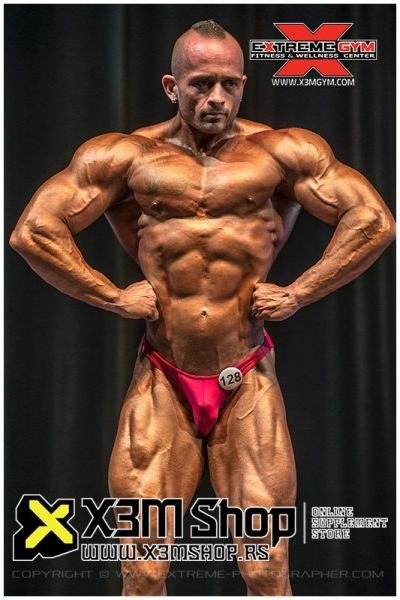
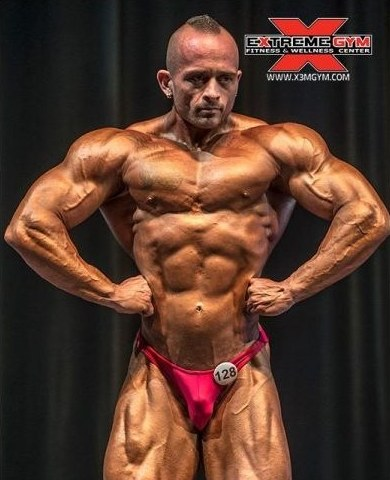
feat: beskonacna traka transformacija, slika takmicara bez okvira

diff --git a/src/components/sections/TransformationsGrid.tsx b/src/components/sections/TransformationsGrid.tsx
@@ -1,200 +1,44 @@
-"use client";
-
 import Image from "next/image";
-import { useEffect, useRef } from "react";
 
 type Photo = { src: string; alt: string };
 
-const SPEED = 40;
-const RESUME_AFTER = 2500;
-
-function resumeTime() {
-  return performance.now() + RESUME_AFTER;
+function Track({ photos, hidden }: { photos: Photo[]; hidden?: boolean }) {
+  return (
+    <ul aria-hidden={hidden} className="flex shrink-0 gap-4 pr-4">
+      {photos.map((p) => (
+        <li key={p.src} className="w-[78vw] shrink-0 sm:w-[360px] lg:w-[420px]">
+          <figure className="relative overflow-hidden rounded-lg bg-brand-paper-line shadow-[0_20px_40px_-24px_rgba(10,10,10,0.45)]">
+            <Image
+              src={p.src}
+              alt={hidden ? "" : p.alt}
+              width={720}
+              height={720}
+              sizes="(min-width: 1024px) 420px, (min-width: 640px) 360px, 78vw"
+              className="aspect-square w-full object-cover"
+            />
+            <span className="absolute top-3 left-3 rounded-sm bg-brand-black/80 px-2.5 py-1 text-[11px] font-bold tracking-[0.16em] text-white uppercase">
+              Prije
+            </span>
+            <span className="absolute top-3 right-3 rounded-sm bg-brand-yellow px-2.5 py-1 text-[11px] font-bold tracking-[0.16em] text-brand-black uppercase">
+              Poslije
+            </span>
+          </figure>
+        </li>
+      ))}
+    </ul>
+  );
 }
 
 export function TransformationsGrid({ photos }: { photos: Photo[] }) {
-  const track = useRef<HTMLDivElement>(null);
-  const state = useRef({
-    pos: 0,
-    paused: false,
-    resumeAt: 0,
-    dragging: false,
-    startX: 0,
-    startPos: 0,
-    moved: false,
-  });
-
-  useEffect(() => {
-    const el = track.current;
-    if (!el) return;
-    const reduce = window.matchMedia("(prefers-reduced-motion: reduce)").matches;
-    const s = state.current;
-    let frame = 0;
-    let last = performance.now();
-    let visible = false;
-
-    const wrap = () => {
-      const half = el.scrollWidth / 2;
-      if (s.pos >= half) s.pos -= half;
-      if (s.pos < 0) s.pos += half;
-    };
-
-    const tick = (t: number) => {
-      const dt = Math.min(t - last, 64) / 1000;
-      last = t;
-      if (visible && !reduce && !s.paused && !s.dragging && t >= s.resumeAt) {
-        s.pos += SPEED * dt;
-        wrap();
-        el.scrollLeft = s.pos;
-      }
-      frame = requestAnimationFrame(tick);
-    };
-
-    const io = new IntersectionObserver(([e]) => {
-      visible = e.isIntersecting;
-    });
-    io.observe(el);
-
-    const hold = () => {
-      s.resumeAt = resumeTime();
-    };
-    const onScroll = () => {
-      if (Math.abs(el.scrollLeft - s.pos) > 2) {
-        s.pos = el.scrollLeft;
-        wrap();
-        if (s.pos !== el.scrollLeft) el.scrollLeft = s.pos;
-        hold();
-      }
-    };
-    const onEnter = () => (s.paused = true);
-    const onLeave = () => {
-      s.paused = false;
-      hold();
-    };
-
-    el.addEventListener("scroll", onScroll, { passive: true });
-    el.addEventListener("mouseenter", onEnter);
-    el.addEventListener("mouseleave", onLeave);
-    el.addEventListener("touchstart", hold, { passive: true });
-    frame = requestAnimationFrame(tick);
-
-    return () => {
-      cancelAnimationFrame(frame);
-      io.disconnect();
-      el.removeEventListener("scroll", onScroll);
-      el.removeEventListener("mouseenter", onEnter);
-      el.removeEventListener("mouseleave", onLeave);
-      el.removeEventListener("touchstart", hold);
-    };
-  }, []);
-
-  const onPointerDown = (e: React.PointerEvent<HTMLDivElement>) => {
-    if (e.pointerType !== "mouse" || !track.current) return;
-    const s = state.current;
-    s.dragging = true;
-    s.moved = false;
-    s.startX = e.clientX;
-    s.startPos = track.current.scrollLeft;
-    track.current.setPointerCapture(e.pointerId);
-  };
-
-  const onPointerMove = (e: React.PointerEvent<HTMLDivElement>) => {
-    const s = state.current;
-    const el = track.current;
-    if (!s.dragging || !el) return;
-    const dx = e.clientX - s.startX;
-    if (Math.abs(dx) > 4) s.moved = true;
-    el.scrollLeft = s.startPos - dx;
-  };
-
-  const onPointerUp = (e: React.PointerEvent<HTMLDivElement>) => {
-    const s = state.current;
-    if (!s.dragging) return;
-    s.dragging = false;
-    s.resumeAt = resumeTime();
-    track.current?.releasePointerCapture(e.pointerId);
-  };
-
-  const step = (dir: 1 | -1) => {
-    const el = track.current;
-    if (!el) return;
-    const card = el.querySelector("li");
-    const w = card ? card.getBoundingClientRect().width + 16 : 400;
-    state.current.resumeAt = resumeTime();
-    el.scrollBy({ left: dir * w, behavior: "smooth" });
-  };
-
   return (
-    <div className="relative mt-12 lg:mt-16">
-      <div
-        ref={track}
-        onPointerDown={onPointerDown}
-        onPointerMove={onPointerMove}
-        onPointerUp={onPointerUp}
-        onPointerCancel={onPointerUp}
-        onClickCapture={(e) => state.current.moved && e.preventDefault()}
-        className="transformations-track cursor-grab overflow-x-auto overscroll-x-contain select-none active:cursor-grabbing"
-        tabIndex={0}
-        role="region"
-        aria-label="Transformacije klijenata, prije i poslije"
-      >
-        <ul className="flex w-max gap-4 px-5 lg:px-[max(1.25rem,calc((100vw-80rem)/2+1.25rem))]">
-          {[...photos, ...photos].map((p, i) => (
-            <li
-              key={`${p.src}-${i}`}
-              aria-hidden={i >= photos.length}
-              className="w-[78vw] shrink-0 sm:w-[360px] lg:w-[420px]"
-            >
-              <figure className="relative overflow-hidden rounded-lg bg-brand-paper-line shadow-[0_20px_40px_-24px_rgba(10,10,10,0.45)]">
-                <Image
-                  src={p.src}
-                  alt={i >= photos.length ? "" : p.alt}
-                  width={720}
-                  height={720}
-                  draggable={false}
-                  sizes="(min-width: 1024px) 420px, (min-width: 640px) 360px, 78vw"
-                  className="aspect-square w-full object-cover"
-                />
-                <span className="absolute top-3 left-3 rounded-sm bg-brand-black/80 px-2.5 py-1 text-[11px] font-bold tracking-[0.16em] text-white uppercase">
-                  Prije
-                </span>
-                <span className="absolute top-3 right-3 rounded-sm bg-brand-yellow px-2.5 py-1 text-[11px] font-bold tracking-[0.16em] text-brand-black uppercase">
-                  Poslije
-                </span>
-              </figure>
-            </li>
-          ))}
-        </ul>
-      </div>
-
-      <div className="mx-auto mt-6 flex max-w-7xl items-center justify-between gap-4 px-5">
-        <p className="text-sm text-brand-ink-muted">Povuci mišem, prstom ili koristi strelice.</p>
-        <div className="flex gap-2">
-          {([-1, 1] as const).map((dir) => (
-            <button
-              key={dir}
-              type="button"
-              onClick={() => step(dir)}
-              aria-label={dir === -1 ? "Prethodna transformacija" : "Sljedeća transformacija"}
-              className="grid size-12 place-items-center rounded-full border-2 border-brand-black transition-colors hover:bg-brand-black hover:text-white"
-            >
-              <svg
-                viewBox="0 0 24 24"
-                fill="none"
-                aria-hidden="true"
-                className={`size-5 ${dir === -1 ? "rotate-180" : ""}`}
-              >
-                <path
-                  d="M5 12h14m0 0-6-6m6 6-6 6"
-                  stroke="currentColor"
-                  strokeWidth="2.25"
-                  strokeLinecap="round"
-                  strokeLinejoin="round"
-                />
-              </svg>
-            </button>
-          ))}
-        </div>
+    <div
+      role="region"
+      aria-label="Transformacije klijenata, prije i poslije"
+      className="mt-12 overflow-hidden lg:mt-16"
+    >
+      <div className="flex w-max animate-marquee will-change-transform [animation-duration:90s] [backface-visibility:hidden]">
+        <Track photos={photos} />
+        <Track photos={photos} hidden />
       </div>
     </div>
   );

diff --git a/src/app/globals.css b/src/app/globals.css
@@ -120,10 +120,3 @@ body {
 body {
   overflow-x: clip;
 }
-
-.transformations-track {
-  scrollbar-width: none;
-}
-.transformations-track::-webkit-scrollbar {
-  display: none;
-}
